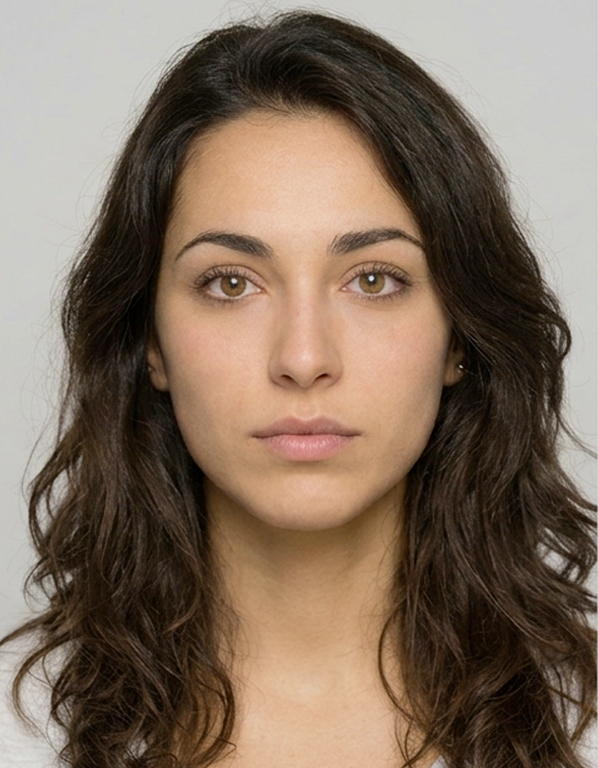
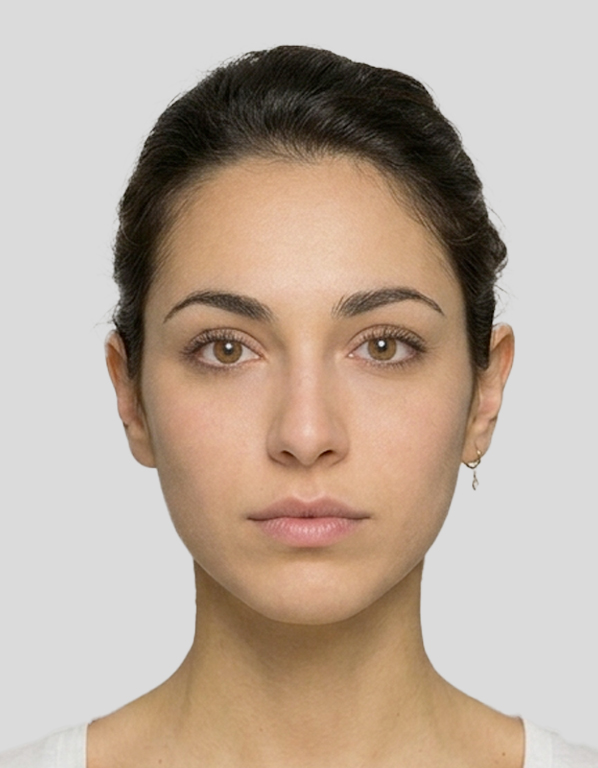
newimgidentite

diff --git a/src/lib/components/Services.svelte b/src/lib/components/Services.svelte
@@ -19,7 +19,7 @@
       <!-- Card 1 -->
       <div class="service-card {seoStore.intention?.slug === 'photo-identite-ants' || seoStore.intention?.slug === 'photo-permis-de-conduire' ? 'active-seo' : ''}">
         <div class="card-image-wrapper">
-          <img src={ephotoImg} alt="e-Photo ANTS" class="card-image" />
+          <img src={ephotoImg} alt="Planche ANTS" class="card-image" />
         </div>
         <div class="card-body-content">
           <div>
